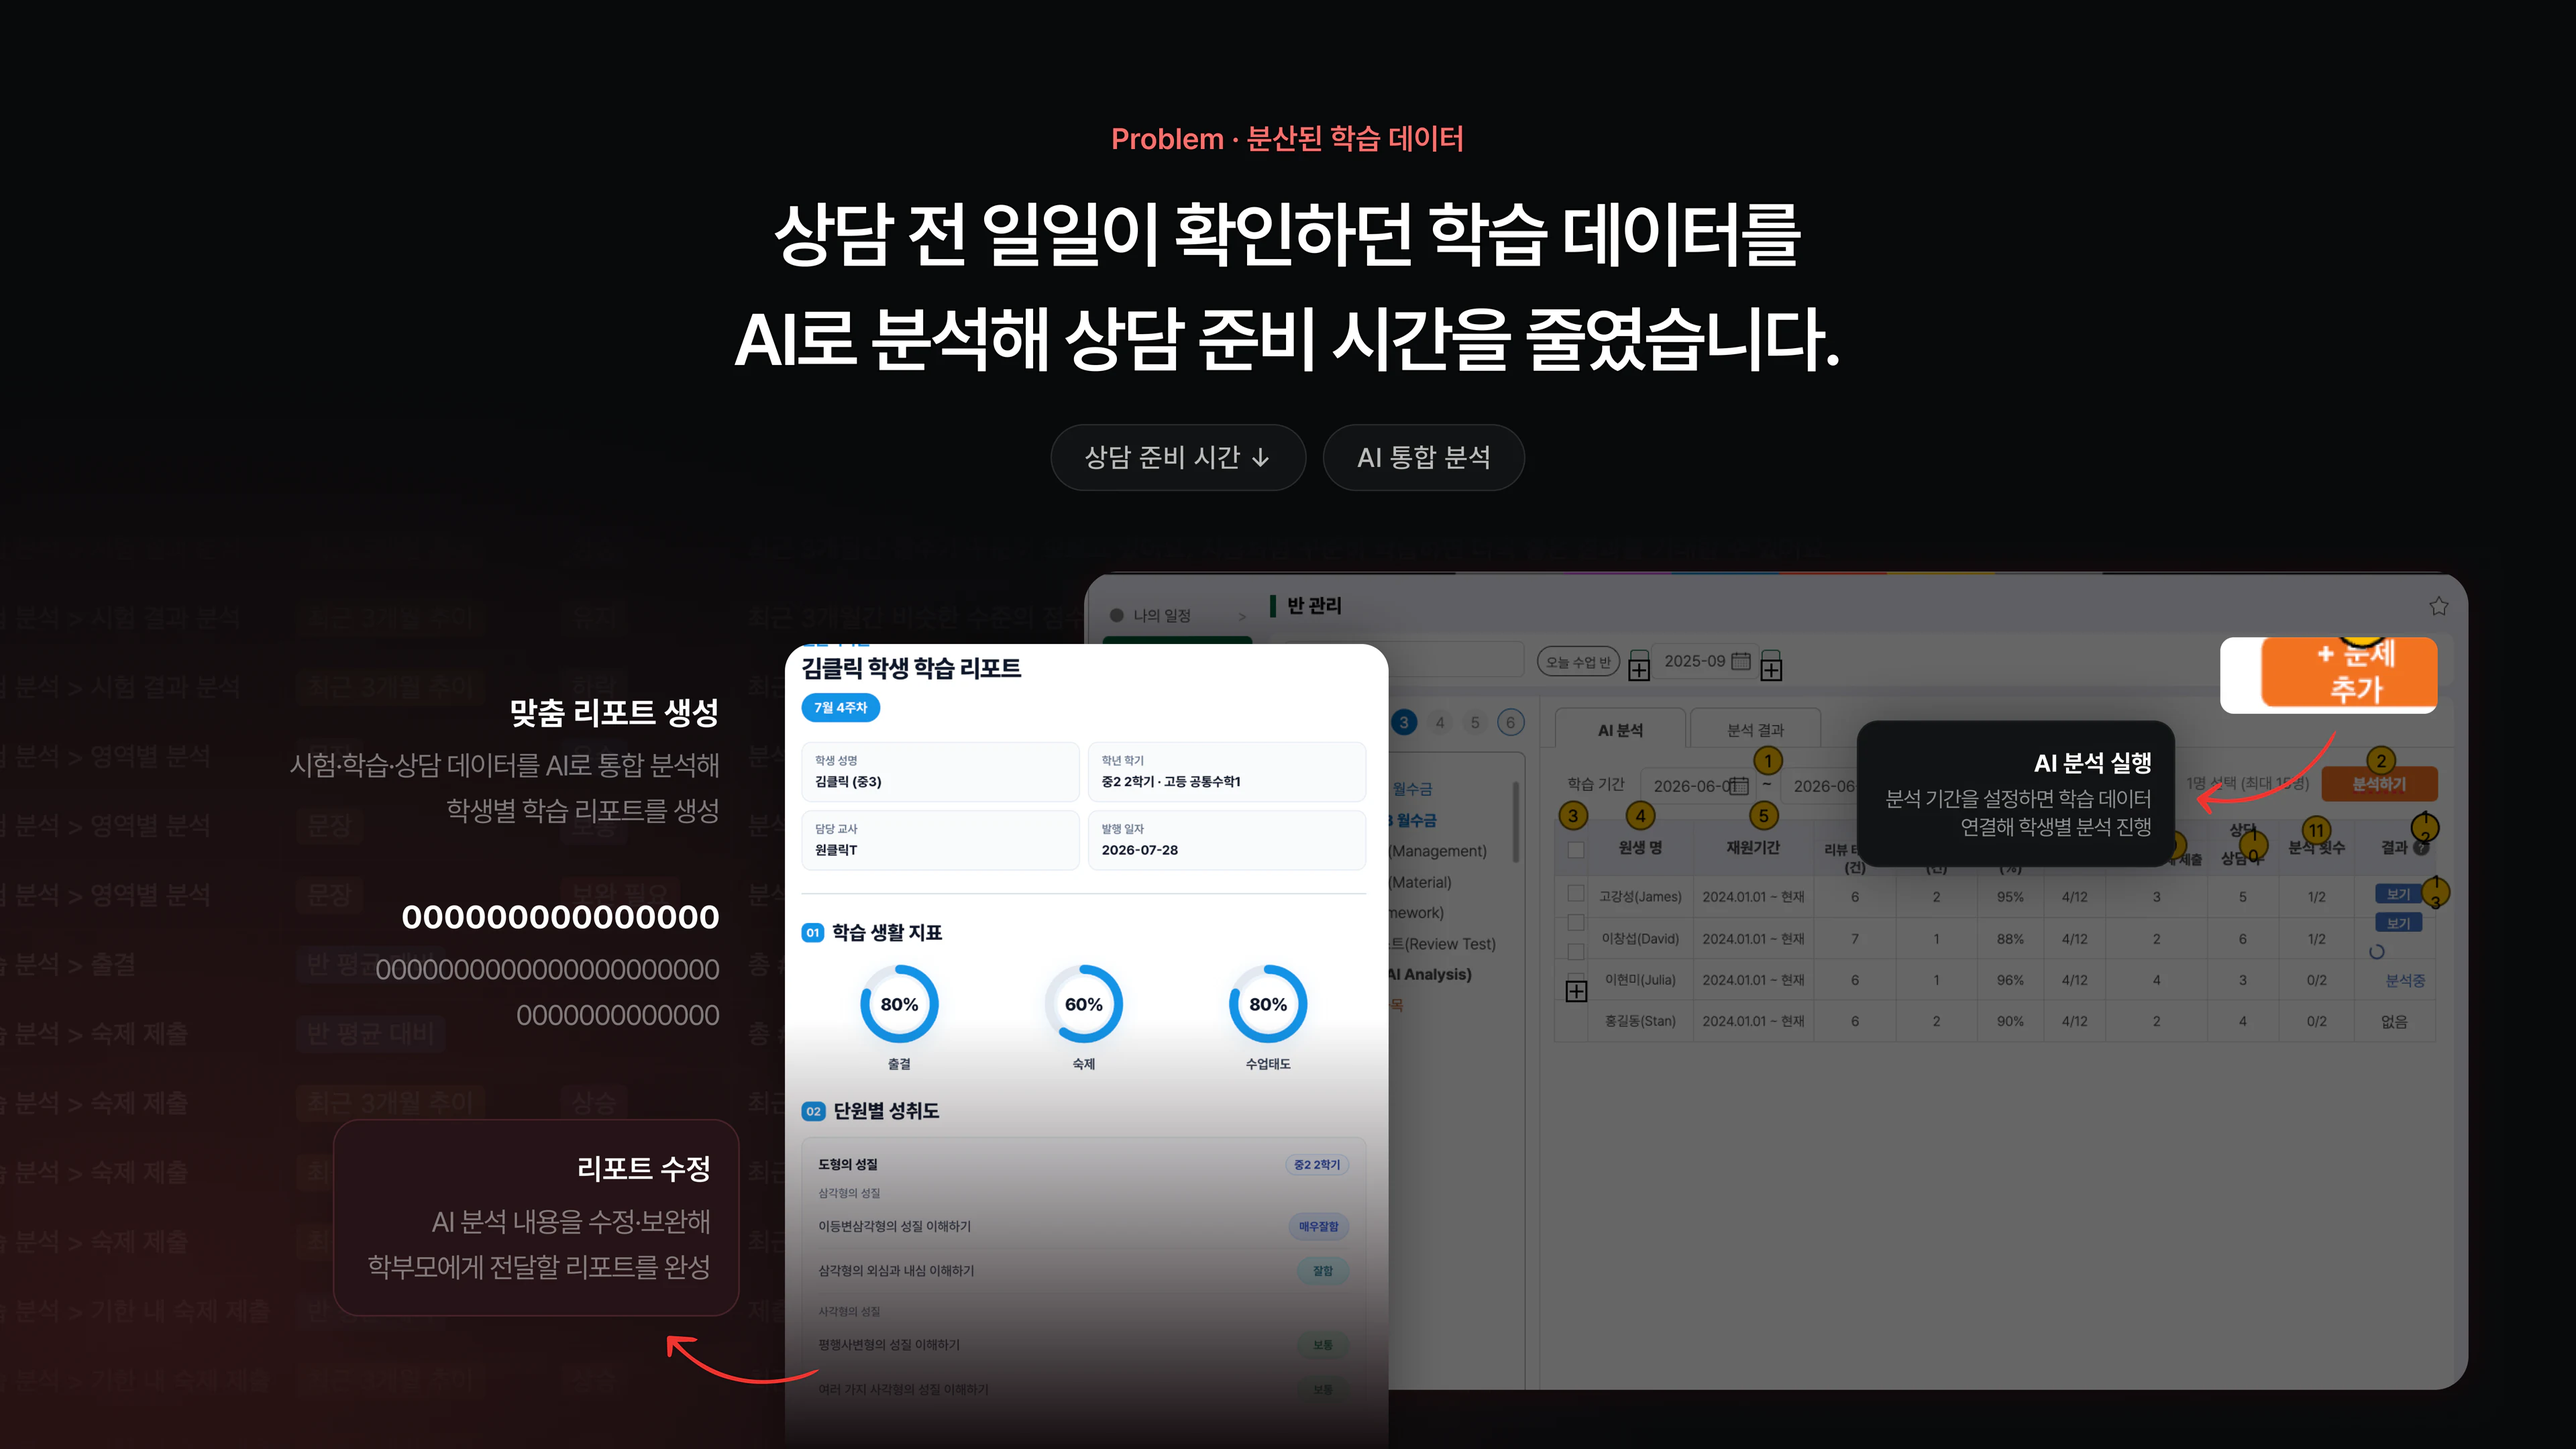
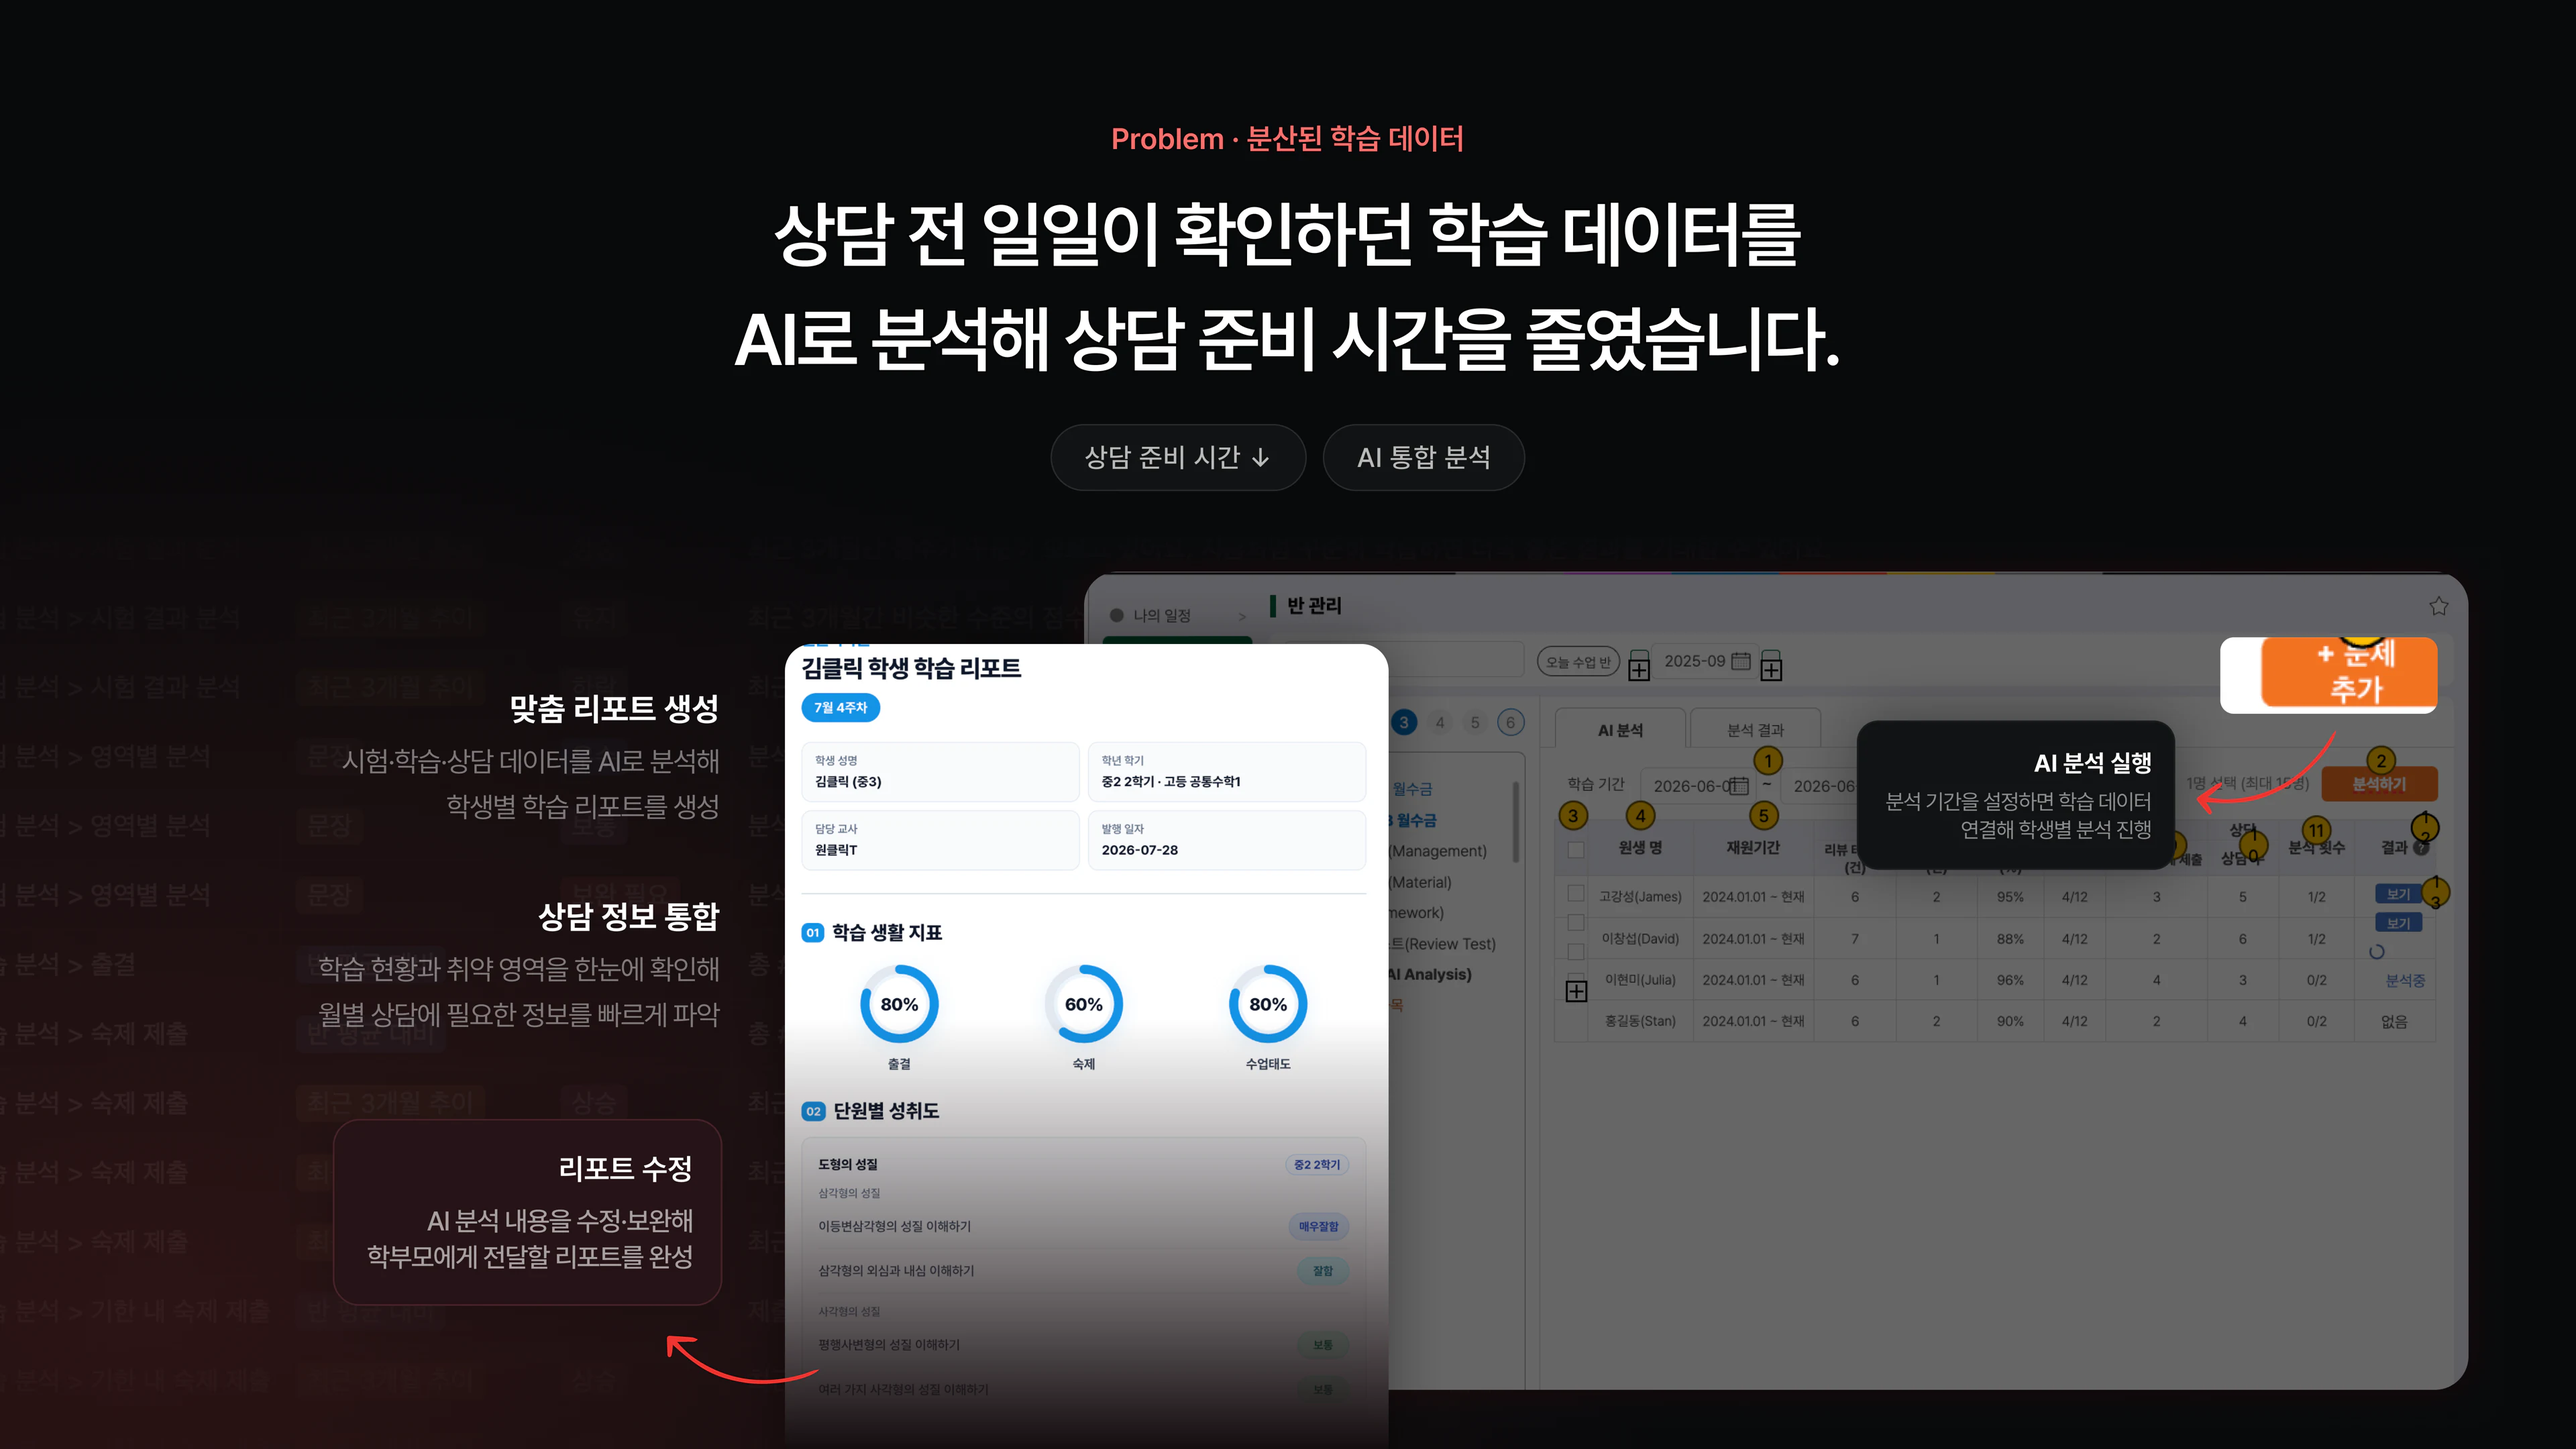
학원 ERP 01 영역 14 · 17 · 18 이미지 교체
- 새 4x PNG 3장 (7680x4320) 을 3840px WebP q88 로 변환
    14  8.66 MB → 0.178 MB
    17  3.82 MB → 0.176 MB
    18  2.36 MB → 0.181 MB
- 나머지 01~13, 15, 16, 19~21 은 변경 없음
- 기존 WebP 최적화·lazy loading·반응형 그대로 유지
- 원본 PNG 는 _originals/01-png-4x/ 에 보관 (git 제외)
- 캐시 버전 ?v=20261002b

diff --git a/index.html b/index.html
@@ -26,7 +26,7 @@
 <link rel="preconnect" href="https://fonts.gstatic.com" crossorigin>
 <link href="https://fonts.googleapis.com/css2?family=Rethink+Sans:wght@500;600;700&family=Figtree:wght@400&family=Playfair+Display:wght@400;500&display=swap" rel="stylesheet">
 <link rel="stylesheet" href="https://cdn.jsdelivr.net/gh/orioncactus/pretendard@v1.3.9/dist/web/variable/pretendardvariable-dynamic-subset.min.css">
-<link rel="stylesheet" href="assets/css/styles.css?v=20261002a">
+<link rel="stylesheet" href="assets/css/styles.css?v=20261002b">
 </head>
 <body>
 
@@ -86,7 +86,7 @@
     <!-- ---------- HERO — Figma 원본 전체를 PNG 한 장으로 표시 ---------- -->
     <section class="hero full-bleed" id="home" aria-label="표지">
       <img class="hero__cover"
-           src="assets/img/main-cover.png?v=20261002a"
+           src="assets/img/main-cover.png?v=20261002b"
            alt="2026 Portfolio — Product Design"
            fetchpriority="high"
            decoding="async">
@@ -94,13 +94,13 @@
 
     <!-- ---------- RESUME / 이력서 ---------- -->
     <section class="resume full-bleed" id="profile">
-      <img src="assets/img/resume.png?v=20261002a" alt="신동주 이력서">
+      <img src="assets/img/resume.png?v=20261002b" alt="신동주 이력서">
     </section>
 
     <!-- ---------- INDEX — 완성 PNG 1장 + 투명 클릭 영역 ---------- -->
     <section class="index full-bleed" id="index" aria-label="프로젝트 목차">
       <div class="index__frame">
-        <img class="index__cover" src="assets/img/index.png?v=20261002a"
+        <img class="index__cover" src="assets/img/index.png?v=20261002b"
              alt="Index — 01 학원 ERP 서비스 고도화, 02 시니어 AI 케어 서비스 기획, 03 숏폼 OTT 서비스 런칭, 04 케이크 주문 서비스 구축"
              width="7680" height="4320" decoding="async">
         <a class="index__hit index__hit--01" href="#project-01" aria-label="학원 ERP 서비스 고도화 프로젝트로 이동"></a>
@@ -161,6 +161,6 @@
   </div>
 </div>
 
-<script src="assets/js/main.js?v=20261002a"></script>
+<script src="assets/js/main.js?v=20261002b"></script>
 </body>
 </html>

diff --git a/assets/js/main.js b/assets/js/main.js
@@ -67,7 +67,7 @@
      (CSS/JS 의 ?v= 와 같은 역할)
      경로 자체에는 붙이지 않는다 — 확장자 추출이나 존재 확인이 쿼리에
      오염되면 안 되므로, <img src> 에 실을 때만 versioned() 로 감싼다. */
-  var ASSET_VERSION = '20261002a';
+  var ASSET_VERSION = '20261002b';
   function slidePath(key, n, ext) { return 'assets/slides/' + key + '/' + pad(n) + '.' + ext; }
   function versioned(src) { return src + '?v=' + ASSET_VERSION; }
 
